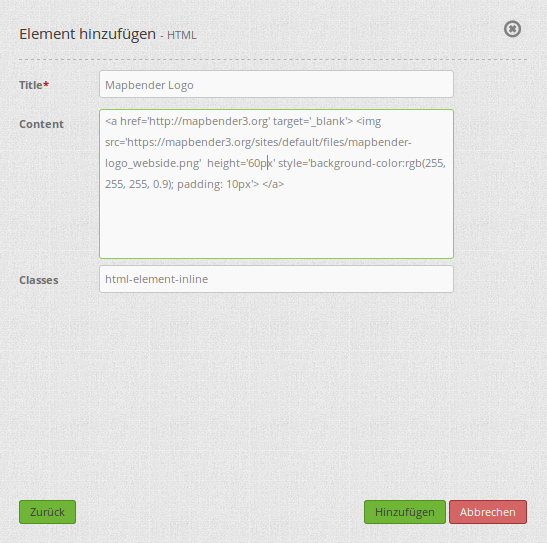
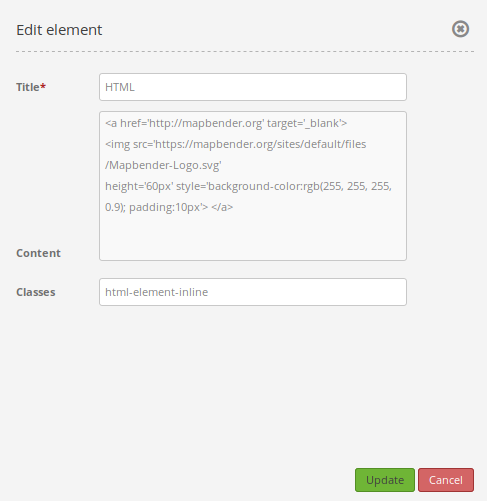
Changed image url in example.

diff --git a/en/functions/misc/html.rst b/en/functions/misc/html.rst
@@ -57,11 +57,11 @@ Let's include a simple logo. We start by naming the title of the HTML-element: M
 
 .. code-block:: yaml
 
-     <a href='http://mapbender.org' target='_blank'>
-     <img src='https://mapbender.org/sites/default/files/mapbender_logo_website.png'
+     <a href='https://mapbender.org' target='_blank'>
+     <img src='https://mapbender.org/sites/default/files/Mapbender-Logo.svg'
      height='60px' style='background-color:rgb(255, 255, 255, 0.9); padding:10px'> </a>
 
-As you can see, the mapbender logo is included as a picture in the code (``img src='https://mapbender.org/sites/default/files/mapbender_logo_website.png'``). In addition, a height (``height='60px'``) and a styling is defined. Our styling (``style=``) includes parameters that define background-color with transparency (``background-color:rgb(255, 255, 255, 0.9)``) and the distance to the margin of the page, called (``padding:10px``). Moreover, we include a link to the official Mapbender web page (``href='http://mapbender.org'``). If you click on the logo, the website will load in a new browser tab (``target='_blank'``).
+As you can see, the mapbender logo is included as a picture in the code (``img src='https://mapbender.org/sites/default/files/Mapbender-Logo.svg'``). In addition, a height (``height='60px'``) and a styling is defined. Our styling (``style=``) includes parameters that define background-color with transparency (``background-color:rgb(255, 255, 255, 0.9)``) and the distance to the margin of the page, called (``padding:10px``). Moreover, we include a link to the official Mapbender web page (``href='http://mapbender.org'``). If you click on the logo, the website will load in a new browser tab (``target='_blank'``).
 
 As mentioned, it is possible to include the HTML-element in several locations. Let's look at the toolbar first:
 
@@ -156,11 +156,11 @@ Add an image
 
 .. code-block:: html
 
-   <img src='http://mapbender.org/sites/default/files/OSGeo_project.png'>
+   <img src='https://mapbender.org/sites/default/files/Mapbender-Logo.svg'>
 
 
 Add an Link
 
 .. code-block:: html
 
-  <a href='http://mapbender.org' target='_blank'>Go to the Mapbender Website</a>
+  <a href='https://mapbender.org' target='_blank'>Go to the Mapbender Website</a>
